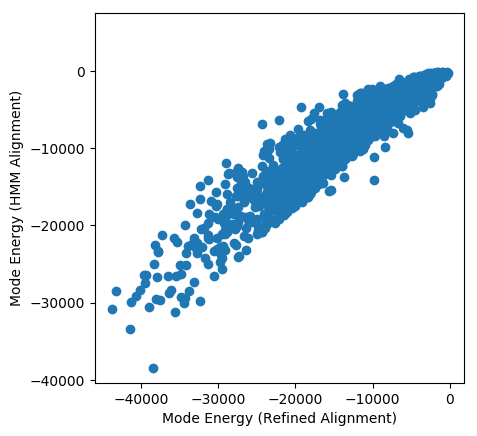
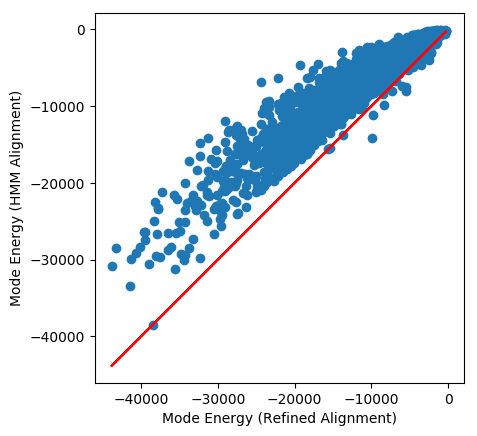
minor changes

diff --git a/analyse_plot_stats.py b/analyse_plot_stats.py
@@ -79,10 +79,19 @@ def analyse_stats(train_stats, test_stats):
         return [a1, a2, b1, b2, b3, b4, b5, b6]
 
 def scatter_plot(x, y, plot_name, x_label, y_label):
+        '''
+        if plot_name == 'refined_mode_vs_hmm_mode.png':
+            fig, ax = plt.subplots()
+            ax.scatter(x, y)
+            line = mlines.Line2D([0, 1], [0, 1], color = 'red')
+            transform = ax.transAxes
+            line.set_transform(transform)
+            ax.add_line(line)
+        '''
 
         plot_name = 'cool_plots/' + plot_name
         plt.scatter(x, y)
-        if plot_name == 'refined_mode_vs_hmm_mode.png':
+        if plot_name == 'cool_plots/refined_mode_vs_hmm_mode.png':
             plt.plot(x, x, '-r', label = 'x = y')
         plt.xlabel(x_label)
         plt.ylabel(y_label)
